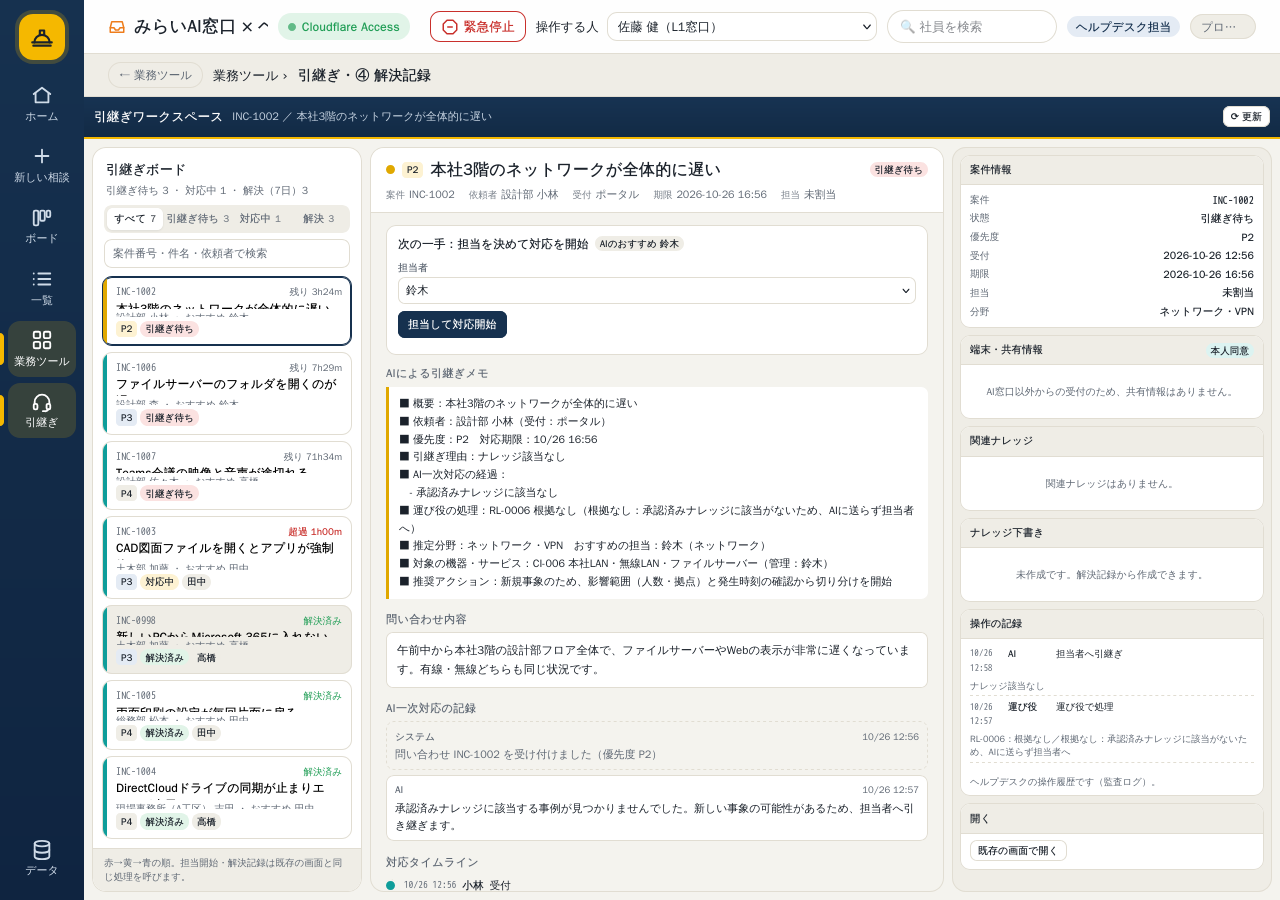
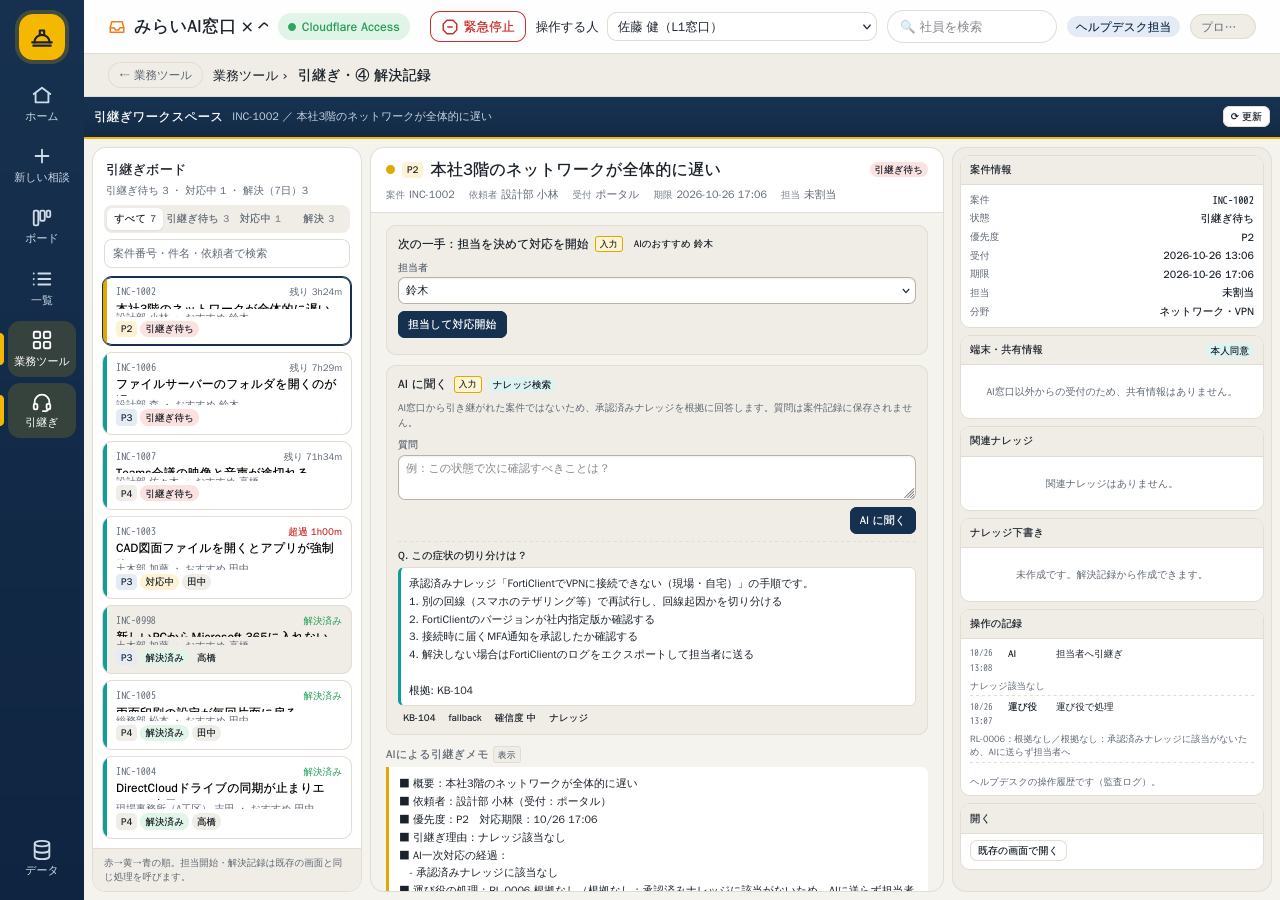
feat(web): 引継ぎ画面にAI質問欄と表示/入力の区別を追加
- AI窓口由来は /api/ai/answer-case、直接受付は /api/ai/answer を使う
- 回答・根拠KB・モデル・確信度を表示し、失敗時はエラーを表示
- 入力カードの背景・入力欄の枠・「入力」「表示」タグで境界を明確化

diff --git a/apps/api/src/prototype/handover-workspace-bridge.js b/apps/api/src/prototype/handover-workspace-bridge.js
@@ -57,6 +57,9 @@
     inbox: [],
     inboxState: 'idle',
     inboxLoading: false,
+    ai: {},
+    aiBusy: {},
+    aiDraft: {},
     scrollTop: 0,
     timer: null,
   };
@@ -182,7 +185,10 @@
     const proposals = chat
       ? Object.values(cw.proposals || {}).filter((p) => p && p.chatId === chat.id)
       : [];
-    return { ticket: cwTicket, chat, proposals };
+    const cwCase = chat
+      ? (Array.isArray(cw.cases) ? cw.cases : []).find((c) => c.chatId === chat.id)
+      : null;
+    return { ticket: cwTicket, chat, proposals, caseId: cwCase ? cwCase.id : null };
   }
 
   function htmlToText(html) {
@@ -634,13 +640,13 @@
 
   function actionHTML(t, kids) {
     if (!canWork()) {
-      return '<section class="hw-action readonly"><div class="hw-action-h"><b>閲覧のみ</b><span class="hw-chip">権限分離</span></div><p class="hw-note">承認者・監査担当は、担当開始・解決記録を登録できません。内容の確認と監査の参照のみ行えます。</p></section>';
+      return '<section class="hw-action readonly"><div class="hw-action-h"><b>閲覧のみ</b><span class="hw-tag display">表示</span><span class="hw-chip">権限分離</span></div><p class="hw-note">承認者・監査担当は、担当開始・解決記録を登録できません。内容の確認と監査の参照のみ行えます。</p></section>';
     }
     if (t.status === 'escalated') {
       const names = staffNames();
       const selected = names.includes(t.suggest) ? t.suggest : names[0] || '';
       return (
-        '<section class="hw-action"><div class="hw-action-h"><b>次の一手：担当を決めて対応を開始</b>' +
+        '<section class="hw-action"><div class="hw-action-h"><b>次の一手：担当を決めて対応を開始</b><span class="hw-tag input">入力</span>' +
         (t.suggest ? '<span class="hw-chip">AIのおすすめ ' + esc(t.suggest) + '</span>' : '') +
         '</div><div class="hw-form-row"><label>担当者<select id="hw-assignee">' +
         (names.length
@@ -662,7 +668,7 @@
     }
     if (t.status === 'in_progress') {
       return (
-        '<section class="hw-action"><div class="hw-action-h"><b>次の一手：解決を記録</b><span class="hw-chip">担当 ' +
+        '<section class="hw-action"><div class="hw-action-h"><b>次の一手：解決を記録</b><span class="hw-tag input">入力</span><span class="hw-chip">担当 ' +
         esc(t.assignee || '-') +
         '</span></div><div class="hw-form-row"><label>原因<textarea id="hw-cause" rows="2" placeholder="事実のみ（推測を書かない）"></textarea></label></div><div class="hw-form-row"><label>対応手順（1行に1手順）<textarea id="hw-steps" rows="4" placeholder="第三者が再現できる粒度で"></textarea></label></div><div class="hw-form-row two"><label>所要時間（分）<input id="hw-min" type="number" min="0" value="30"></label><label>備考<input id="hw-note" placeholder="任意"></label></div>' +
         (kids.length
@@ -678,7 +684,7 @@
     if (t.status === 'resolved') {
       const r = t.resolution || {};
       return (
-        '<section class="hw-action ok"><div class="hw-action-h"><b>解決済み</b><span class="hw-chip ok">' +
+        '<section class="hw-action ok"><div class="hw-action-h"><b>解決済み</b><span class="hw-tag display">表示</span><span class="hw-chip ok">' +
         esc(fmtTs(t.resolvedAt)) +
         ' / ' +
         esc(r.by || t.assignee || '') +
@@ -700,6 +706,134 @@
       );
     }
     return '<section class="hw-action"><b>AIで解決済みの案件です。</b></section>';
+  }
+
+  function aiItemHTML(item) {
+    const sources = (Array.isArray(item.sources) ? item.sources : [])
+      .map((source) => source && (source.kbNo || source.id || ''))
+      .filter(Boolean);
+    return (
+      '<div class="hw-ai-qa"><div class="hw-ai-q">Q. ' +
+      esc(item.q) +
+      '</div><div class="hw-ai-answer' +
+      (item.error ? ' bad' : '') +
+      '">' +
+      esc(item.a) +
+      '</div><div class="hw-ai-meta">' +
+      sources.map((source) => '<span class="hw-chip">' + esc(source) + '</span>').join('') +
+      (item.model ? '<span class="hw-chip">' + esc(item.model) + '</span>' : '') +
+      (item.confidence ? '<span class="hw-chip">確信度 ' + esc(item.confidence) + '</span>' : '') +
+      '<span class="hw-chip">' +
+      (item.mode === 'case' ? '案件コンテキスト' : 'ナレッジ') +
+      '</span></div></div>'
+    );
+  }
+
+  function aiHTML(t) {
+    if (!canWork()) return '';
+    const cw = cowork(t);
+    const caseId = cw ? cw.caseId : null;
+    const busy = Boolean(HW.aiBusy[t.id]);
+    const items = (HW.ai[t.id] || []).slice(-5);
+    const note = caseId
+      ? 'Aさんが共有したPC情報と、ここまでのAI一次対応の履歴を根拠に回答します。引継ぎ記録がある場合は、質問と回答をその記録に保存します。'
+      : 'AI窓口から引き継がれた案件ではないため、承認済みナレッジを根拠に回答します。質問は案件記録に保存されません。';
+    return (
+      '<section class="hw-action hw-ai"><div class="hw-action-h"><b>AI に聞く</b><span class="hw-tag input">入力</span><span class="hw-chip info">' +
+      (caseId ? '案件コンテキスト' : 'ナレッジ検索') +
+      '</span></div><p class="hw-ai-note">' +
+      esc(note) +
+      '</p><div class="hw-form-row"><label>質問<textarea id="hw-ai-input" rows="2" placeholder="例：この状態で次に確認すべきことは？">' +
+      esc(HW.aiDraft[t.id] || '') +
+      '</textarea></label></div><div class="hw-form-row end"><button type="button" class="hw-btn pri" data-hw="ai"' +
+      (busy ? ' disabled' : '') +
+      '>' +
+      (busy ? '回答中…' : 'AI に聞く') +
+      '</button></div>' +
+      items.map(aiItemHTML).join('') +
+      '</section>'
+    );
+  }
+
+  async function askAi(t) {
+    if (!canWork() || HW.aiBusy[t.id]) return;
+    const input = $('#hw-ai-input');
+    const text = input ? input.value.trim() : '';
+    if (!text) {
+      hwToast('聞きたいことを入力してください');
+      return;
+    }
+    const cw = cowork(t);
+    const caseId = cw ? cw.caseId : null;
+    HW.aiDraft[t.id] = text;
+    HW.aiBusy[t.id] = true;
+    const button = root.querySelector('[data-hw="ai"]');
+    if (button) {
+      button.disabled = true;
+      button.textContent = '回答中…';
+    }
+    let mode = caseId ? 'case' : 'kb';
+    let data = null;
+    let error = null;
+    const ask = async (url, payload) => {
+      const response = await fetch(url, {
+        method: 'POST',
+        headers: { 'Content-Type': 'application/json' },
+        body: JSON.stringify(payload),
+      });
+      const body = await response.json().catch(() => null);
+      return { response, body };
+    };
+    const fallbackText =
+      '【案件】' +
+      String(t.subject || '').slice(0, 200) +
+      '\n' +
+      String(t.body || '').slice(0, 800) +
+      '\n\n【担当者の質問】' +
+      text;
+    try {
+      let result;
+      if (caseId) {
+        result = await ask('/api/ai/answer-case', { caseId, text });
+        if (result.response.status === 404 || result.response.status >= 500) {
+          mode = 'kb';
+          result = await ask('/api/ai/answer', { text: fallbackText });
+        }
+      } else {
+        result = await ask('/api/ai/answer', { text: fallbackText });
+      }
+      if (!result.response.ok) {
+        throw new Error(
+          result.body && result.body.error
+            ? result.body.error.message
+            : 'HTTP ' + result.response.status,
+        );
+      }
+      data = result.body || {};
+    } catch (err) {
+      error = String(err && err.message ? err.message : err).slice(0, 180);
+    }
+    HW.ai[t.id] = HW.ai[t.id] || [];
+    HW.ai[t.id].push({
+      q: text,
+      a: error
+        ? '回答できませんでした：' + error
+        : data && data.answer
+          ? data.answer
+          : '回答が空でした。',
+      sources: (data && data.sources) || [],
+      model: (data && data.model) || '',
+      confidence: (data && data.confidence) || '',
+      mode,
+      error: Boolean(error),
+      at: Date.now(),
+    });
+    if (HW.ai[t.id].length > 8) HW.ai[t.id] = HW.ai[t.id].slice(-8);
+    HW.aiBusy[t.id] = false;
+    HW.aiDraft[t.id] = '';
+    if (current() && current().id === t.id) renderAll();
+    if (error) hwToast('AI の回答に失敗しました：' + error, 'bad');
+    else hwToast('AI が回答しました。', 'ok');
   }
 
   function caseHTML(t) {
@@ -737,15 +871,16 @@
           '）から引き継がれた案件です。</b> 本人が共有に同意した情報だけを表示しています。</div>'
         : '') +
       actionHTML(t, kids) +
-      '<section class="hw-sec"><h3>AIによる引継ぎメモ</h3><pre class="hw-memo">' +
+      aiHTML(t) +
+      '<section class="hw-sec"><h3>AIによる引継ぎメモ <span class="hw-tag display">表示</span></h3><pre class="hw-memo">' +
       esc((t.handover && t.handover.summary) || '（引継ぎメモはありません）') +
-      '</pre></section><section class="hw-sec"><h3>問い合わせ内容</h3><div class="hw-body">' +
+      '</pre></section><section class="hw-sec"><h3>問い合わせ内容 <span class="hw-tag display">表示</span></h3><div class="hw-body">' +
       esc(t.body || '') +
       '</div></section><section class="hw-sec"><h3>' +
       (cw ? 'AI相談の会話（共有範囲）' : 'AI一次対応の記録') +
-      '</h3>' +
+      ' <span class="hw-tag display">表示</span></h3>' +
       (cw ? chatHTML(cw) : aiLogHTML(t)) +
-      '</section><section class="hw-sec"><h3>対応タイムライン</h3>' +
+      '</section><section class="hw-sec"><h3>対応タイムライン <span class="hw-tag display">表示</span></h3>' +
       historyHTML(t) +
       '</section><div class="hw-endnote">担当開始・解決記録は既存の「③ 引継ぎ・④ 解決記録」と同じ処理を呼び出します。画面を閉じても既存の操作は変わりません。</div></div>'
     );
@@ -1139,6 +1274,15 @@
 #ahd-hw .hw-chip.warn{background:var(--u-y-soft,#fdf2d2)}
 #ahd-hw .hw-chip.bad{background:var(--u-r-soft,#fbe2e1)}
 #ahd-hw .hw-chip.info{background:var(--u-teal-soft,#dcf3f1)}
+#ahd-hw .hw-tag{display:inline-flex;align-items:center;font-size:8.6px;font-weight:800;line-height:1.7;padding:0 4px;border-radius:3px;border:1px solid transparent;letter-spacing:.03em;white-space:nowrap}
+#ahd-hw .hw-tag.display{background:var(--u-surface2,#efede6);color:var(--u-muted,#5f6874);border-color:var(--u-line,#e1ddd2)}
+#ahd-hw .hw-tag.input{background:var(--u-safety-soft,#fff5d3);color:var(--u-ink,#1b222b);border-color:var(--u-y,#e0a800)}
+#ahd-hw .hw-ai-note{margin:0 0 7px;font-size:9.8px;color:var(--u-muted,#5f6874);line-height:1.55}
+#ahd-hw .hw-ai-qa{margin-top:7px;border-top:1px dashed var(--u-line,#e1ddd2);padding-top:6px}
+#ahd-hw .hw-ai-q{font-size:10.2px;font-weight:700;color:var(--u-ink,#1b222b);margin-bottom:3px}
+#ahd-hw .hw-ai-answer{background:var(--u-surface,#fff);border:1px solid var(--u-line,#e1ddd2);border-left:3px solid var(--u-teal,#0f9d9a);border-radius:6px;padding:6px 8px;font-size:10.8px;line-height:1.65;white-space:pre-wrap;word-break:break-word}
+#ahd-hw .hw-ai-answer.bad{border-left-color:var(--u-r,#c9302c);background:var(--u-r-soft,#fbe2e1)}
+#ahd-hw .hw-ai-meta{display:flex;gap:3px;flex-wrap:wrap;margin-top:4px}
 #ahd-hw .hw-inbox{border:1px solid var(--u-y,#e0a800);background:var(--u-safety-soft,#fff5d3);border-radius:9px;padding:7px;margin-bottom:2px}
 #ahd-hw .hw-inbox-h{display:flex;justify-content:space-between;font-size:10.2px;font-weight:700}
 #ahd-hw .hw-inbox-h span{background:var(--u-surface,#fff);border-radius:999px;padding:0 6px}
@@ -1163,7 +1307,7 @@
 #ahd-hw .hw-alert{border-left:3px solid var(--u-teal,#0f9d9a);background:var(--u-teal-soft,#dcf3f1);padding:7px 9px;border-radius:7px;font-size:10.8px;line-height:1.6;margin-bottom:8px}
 #ahd-hw .hw-alert.bad{border-color:var(--u-r,#c9302c);background:var(--u-r-soft,#fbe2e1)}
 #ahd-hw .hw-alert.info{border-color:var(--u-navy,#16314f);background:#e4ebf4}
-#ahd-hw .hw-action{border:1px solid var(--u-line,#e1ddd2);background:var(--u-surface,#fff);border-radius:10px;padding:9px 11px;margin-bottom:10px}
+#ahd-hw .hw-action{border:1px solid var(--u-line,#e1ddd2);background:var(--u-surface2,#efede6);border-radius:10px;padding:9px 11px;margin-bottom:10px}
 #ahd-hw .hw-action.ok{border-color:#a9d9bd;background:var(--u-g-soft,#e1f4e8)}
 #ahd-hw .hw-action.readonly{background:var(--u-surface2,#efede6)}
 #ahd-hw .hw-action-h{display:flex;align-items:center;gap:6px;flex-wrap:wrap;font-size:11.6px;margin-bottom:6px}
@@ -1172,7 +1316,8 @@
 #ahd-hw .hw-form-row.end{justify-content:flex-end;margin-bottom:0}
 #ahd-hw .hw-form-row label{display:flex;flex-direction:column;gap:2px;font-size:9.8px;font-weight:700;color:var(--u-muted,#5f6874);flex:1 1 100%}
 #ahd-hw .hw-form-row.two label{flex:1 1 110px}
-#ahd-hw .hw-form-row input,#ahd-hw .hw-form-row select,#ahd-hw .hw-form-row textarea{border:1px solid var(--u-line,#e1ddd2);border-radius:7px;padding:5px 7px;font:11.2px var(--u-font,sans-serif);background:var(--u-surface,#fff);color:var(--u-ink,#1b222b);width:100%}
+#ahd-hw .hw-form-row input,#ahd-hw .hw-form-row select,#ahd-hw .hw-form-row textarea{border:1.5px solid #b9b2a3;border-radius:7px;padding:5px 7px;font:11.2px var(--u-font,sans-serif);background:var(--u-surface,#fff);color:var(--u-ink,#1b222b);width:100%;box-shadow:inset 0 1px 2px rgba(20,30,40,.07)}
+#ahd-hw .hw-form-row input:focus,#ahd-hw .hw-form-row select:focus,#ahd-hw .hw-form-row textarea:focus{border-color:var(--u-teal,#0f9d9a);box-shadow:0 0 0 2px rgba(15,157,154,.18);outline:none}
 #ahd-hw .hw-form-row textarea{resize:vertical;line-height:1.5}
 #ahd-hw .hw-form-row select{min-width:120px}
 #ahd-hw .hw-check{display:flex;gap:6px;align-items:flex-start;font-size:10.2px;margin:4px 0;cursor:pointer}
@@ -1241,11 +1386,13 @@ body.ahd-hw-open{overflow:hidden}
 :root[data-theme="dark"] #ahd-hw .hw-prio.p3{background:#1d2b3d}
 :root[data-theme="dark"] #ahd-hw .hw-alert.info{background:#1d2b3d}
 :root[data-theme="dark"] #ahd-hw .hw-btn.pri{background:var(--u-teal,#0f9d9a);border-color:var(--u-teal,#0f9d9a)}
+:root[data-theme="dark"] #ahd-hw .hw-form-row input,:root[data-theme="dark"] #ahd-hw .hw-form-row select,:root[data-theme="dark"] #ahd-hw .hw-form-row textarea{border-color:#4a5a6c;background:#141c26}
 @media (prefers-color-scheme:dark){
  :root:not([data-theme="light"]) #ahd-hw .hw-card.on{border-color:var(--u-teal,#0f9d9a);box-shadow:0 0 0 1px var(--u-teal,#0f9d9a) inset}
  :root:not([data-theme="light"]) #ahd-hw .hw-prio.p3{background:#1d2b3d}
  :root:not([data-theme="light"]) #ahd-hw .hw-alert.info{background:#1d2b3d}
  :root:not([data-theme="light"]) #ahd-hw .hw-btn.pri{background:var(--u-teal,#0f9d9a);border-color:var(--u-teal,#0f9d9a)}
+ :root:not([data-theme="light"]) #ahd-hw .hw-form-row input,:root:not([data-theme="light"]) #ahd-hw .hw-form-row select,:root:not([data-theme="light"]) #ahd-hw .hw-form-row textarea{border-color:#4a5a6c;background:#141c26}
 }
 @media(max-width:1320px){#ahd-hw .hw-grid{grid-template-columns:270px minmax(0,1fr) 320px}}
 @media(max-width:1120px){#ahd-hw .hw-grid{grid-template-columns:250px minmax(0,1fr)}#ahd-hw .hw-ev{display:none}}
@@ -1434,12 +1581,20 @@ body.ahd-hw-open{overflow:hidden}
     if (action === 'draft') return openDraft(t);
     if (action === 'legacy') return openLegacy(t);
     if (action === 'cowork') return openCowork(t);
+    if (action === 'ai') return askAi(t);
     if (action === 'kb') return openKb(target.dataset.id);
   });
 
   root.querySelector('#hw-search').addEventListener('input', (event) => {
     HW.query = event.target.value;
     renderList();
+  });
+
+  root.addEventListener('input', (event) => {
+    if (event.target && event.target.id === 'hw-ai-input') {
+      const t = current();
+      if (t) HW.aiDraft[t.id] = event.target.value;
+    }
   });
 
   root.addEventListener(

diff --git a/docs/33-handover-workspace.md b/docs/33-handover-workspace.md
@@ -51,6 +51,10 @@
   - `escalated`: 担当者を選び「担当して対応開始」。
   - `in_progress`: 原因・手順・所要・備考・ナレッジ下書きの有無を入力し「解決を記録」。
   - `resolved`: 解決記録の内容とナレッジ下書きへの導線。
+- **AI に聞く**: 質問を入力して AI の回答を得る。AI窓口由来の案件は
+  `POST /api/ai/answer-case`（共有 PC 情報と AI 一次対応の履歴を根拠）、
+  直接受付の案件は `POST /api/ai/answer`（承認済みナレッジを根拠）を使う。
+  回答・根拠 KB・モデル・確信度を表示する。
 - 「AIによる引継ぎメモ」（既存の `buildHandover` の全文）。
 - 問い合わせ内容。
 - AI相談の会話（AI窓口から引き継がれた案件で、cowork 状態に会話がある場合）。
@@ -79,6 +83,8 @@
 | 既存の画面で開く | `App.go('queue', id)` |
 | 利用者の受付番号 | `UX.openTicket(ticketId)` |
 | 引継ぎの引き受け | `POST /api/case-handovers/:id/claim`（既存の受信箱と同じ API） |
+| AI に聞く（AI窓口由来） | `POST /api/ai/answer-case`（共有 PC 情報・AI 履歴を根拠） |
+| AI に聞く（直接受付） | `POST /api/ai/answer`（承認済みナレッジを根拠） |
 
 既存処理はフォームの入力 ID（`#q_as`, `#r_cause`, `#r_steps`, `#r_min`, `#r_note`,
 `#r_kb`, `#r_child`）を読む。ブリッジは呼び出しの間だけ同じ ID の入力を
@@ -92,6 +98,7 @@
 - 担当開始・解決記録は `me().role` が `staff` または `itadmin` のときだけ表示する。
 - `approver` / `auditor` は閲覧のみ（担当開始・解決記録のボタンを出さない）。
 - 未受領の引継ぎの「引き受ける」も `staff` / `itadmin` のみ表示する。
+- 「AI に聞く」も `staff` / `itadmin` のみ表示する（承認者・監査担当は閲覧のみ）。
 - 左ナビの「引継ぎ」は一般社員には表示しない（`me().role !== 'employee'`）。
 - サーバ側の権限判定は既存 API のまま。UI の非表示だけに依存しない。
 
@@ -104,6 +111,10 @@
 - **解決ループ（Skill / verify / 新しい承認ハッシュ）はこの画面に未接続**。
   既存のヘルプデスク案件は従来フロー（AI相談 → 引継ぎ → 解決記録）のデータを持つため、
   Skill / verify を偽って表示しない。接続する場合は別途設計する。
+- AI 質問の保存先: AI窓口由来の案件は `/api/ai/answer-case` が引継ぎスナップショットの
+  チャットに質問と回答を保存する。直接受付の案件は `/api/ai/answer` のため保存されない。
+- 表示と入力の区別: 入力用カードは背景色を変え、入力欄は白背景＋濃い枠、
+  見出しに「入力」「表示」タグを付ける。読み取り専用のメモ・本文・会話は白背景のまま。
 - 引継ぎの引き受けは、既存の受信箱と同じく成功後に画面を再読み込みする
   （cowork 状態のマージを確実に反映するため）。
 - 画面を開いたまま既存画面で操作した場合は `aihd-state` イベントで再描画する。
@@ -139,6 +150,8 @@
 | 左ナビ項目 | 非一般社員に表示、一般社員は非表示。クリックで開き、画面遷移（`S.ui.view`）を変えない。`uxShell` 再描画後も残る |
 | インライン表示 | `.ux-content` 内に表示。左ナビ・ヘッダーは残り、`#uxPage`/`#cw`/`#hd` を隠す。別ナビで閉じて元画面に戻る（開閉だけでは `S.ui.view` を変えない） |
 | インライン時の「×」 | 非表示。`Esc` / 左ナビ再クリック / 別ナビで閉じる。全画面フォールバック時のみ表示 |
+| AI に聞く | 質問入力→回答・根拠 KB・モデル・確信度を表示。直接受付の案件はナレッジ検索で回答 |
+| 入力と表示の区別 | 入力カードの背景・入力欄の枠・「入力」「表示」タグを確認 |
 | プレビュー反映 | 2026-10-26 13:33 に `ai-helpdesk-api.service` を再起動（`commit=f237738` / health 200 / 公開URLは Cloudflare Access へ 302） |
 | AI窓口由来の案件（テスト用フィクスチャ） | 共有情報、会話、提案、承認ハッシュの表示を確認 |
 

diff --git a/docs/14-prototype-ui-integration.md b/docs/14-prototype-ui-integration.md
@@ -137,6 +137,8 @@
   `</body>` 直前に注入する。左ナビ（`#uxRail`）の「引継ぎ」と、ヘルプデスク画面の
   右下起動ボタンから、既存の右側コンテンツ（`.ux-content`）内に表示する（別ウィンドウではない）。
   左ナビとヘッダーは残り、閉じる・別ナビへの移動で元の画面に戻る。
+  中央ペインには既存の `/api/ai/answer-case` / `/api/ai/answer` を使う「AI に聞く」入力を追加し、
+  AI窓口由来は共有情報、直接受付は承認済みナレッジを根拠にする。
   `.ux-content` が無い場合だけ全画面オーバーレイにフォールバックする。
   左ナビ項目は一般社員には表示しない。
 - 左=引継ぎボード、中=引継ぎメモ・会話・タイムライン・次の一手、右=案件情報・共有情報・
